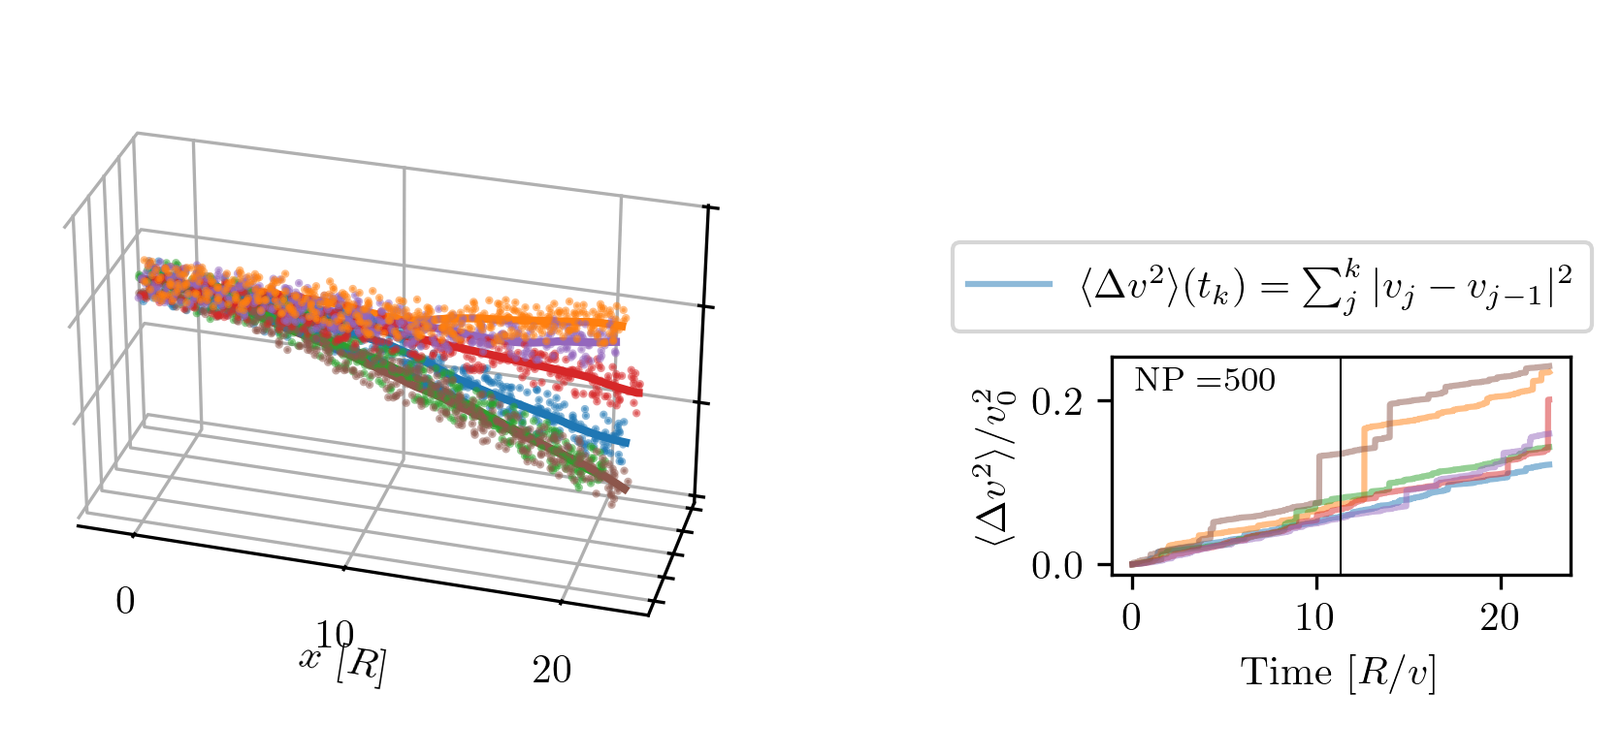
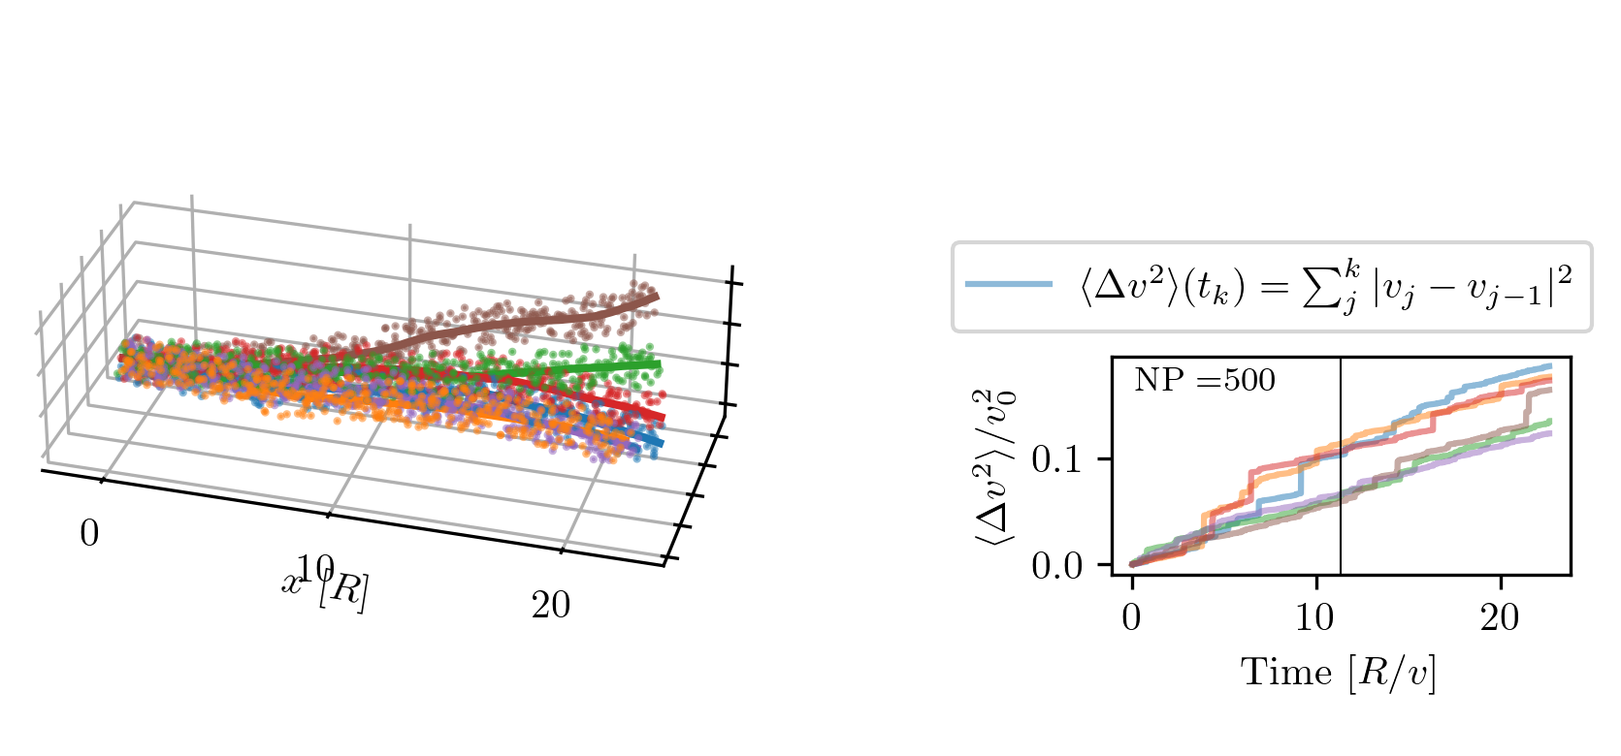
editted intro to ignored physics

diff --git a/docs/theory.html b/docs/theory.html
@@ -2587,124 +2587,119 @@ out the landscape of what we’re missing and other techinques presented
 in the literature. The most important of which is certainly handing the
 globular cluster as a collisional system.</p>
 <h2 id="sec:collisionalDynamics">Collisional dynamics</h2>
-<p>As shown in multiple sources, it is appropraite to consider the
-orbits of stars within the disk or the galaxy as being collisionless.
-However, this is unsatisfactory for globular clusters. I want to show a
-little bit of that here.</p>
-<p>I don’t want to represent the whole derivation but present a little
-numerical experiment I conducted to show what two-body relaxation is as
-it is presented.</p>
-<p>Two body relaxation aims at quantifying the innaccurary of the
-mean-field approximation. It formualtes the question in this manner, how
-long does it take for the granularity of the medium to cause my
-trajecotry to significantly deviate from it’s trajectory if it were in a
-perfectly homogeneous medium? The metric is thus finding the amount time
-such that <span class="math inline">\(\delta v / v_0 \approx
-1\)</span>.</p>
-<p>These types of calculations really abstract the motion of a particle
-from that of an orbit in the galaxy. The exact orbit of the star is
-completely neglected. Instead, we consider uniform motion. Then, we
-consider the motion of a star in a medium made of discrete particles. If
-the mass is distributed onto many particles, then each one is smaller,
-and there are more of them, and we better approximate the mean field.
-However, if there are less of them, then each one is significant and can
-perturb the motion of our particle in a significant way.</p>
-<p>For instance, the consider the vector quanity of the change in
-velocity due to an impact within the impulse approximation. It is: <span
-class="math display">\[\label{eq:delta_v_vec_impulse_approx}
-            \delta \mathbf{v} = \frac{Gm}{bv}\begin{bmatrix} 0 \\
-\cos\left(\theta\right) \\ \sin\left(\theta\right)
-\end{bmatrix},\]</span> Imagine now, that this particle is flying
-through the galaxy. Now, instead of considering just one fly-by, we want
-to consider all fly-bys that could happen. It’s too difficult to
-consider a real galaxy. Since the stellar density decays with distance,
-and if we are never in the center, then one side should have more stars
-than the other. However, that would be considering the mean-field and we
-want to completely abstract the stochastic fluctuations from the mean
-field. So if the gravitational field of the Milky Way can be considered:
-<span class="math inline">\(\Phi_\mathrm{MW} =
-\Phi_\mathrm{mean}\left(\vec{r}\right) +
-\Phi_\mathrm{stochastic}\left(\vec{r}\right)\)</span>, then we only need
-consider the stochastic fluctuations and not the mean field that
-contains the over all density trends.</p>
-<p>So, to really simplify this problem, we can consider the galaxy to be
-a cylinder of finite width but infinite length, with a number density
-<span class="math inline">\(n=N_p/\pi R^3\)</span>, whose length and
-radius have the same length. As the particle passes through the medium,
-using the impulse approximation, we can track how the velocity changes.
-These impulses kick the particle to the left or the right but never give
-or take along the direction of motion, by definition within the impulse
-approximation. I present this little numerical experiment in Fig. <a
-href="#fig:twoBodyRelaxation" data-reference-type="ref"
+<p>While it is appropriate to treat the orbits of stars in galaxy as
+collisionless, this approximation breaks down in the context of globular
+clusters. Here, I present a brief numerical experiment to illustrate the
+concept of two-body relaxation, which quantifies the breakdown of the
+mean-field approximation.</p>
+<p>Two-body relaxation asks: how long does it take for the discrete,
+granular nature of the stellar medium to cause a star’s trajectory to
+deviate significantly from the one it would follow in a perfectly smooth
+(mean-field) potential? This timescale is defined by the condition:
+<span class="math inline">\(\delta v / v_0 \sim 1\)</span>, meaning that
+the change in the velocity due to the medium roughly the original
+speed.</p>
+<p>In this context, we simplify the star’s motion, neglecting the
+complexity of orbital paths in a galaxy. Instead, we consider uniform
+motion through a medium composed of discrete masses. If the medium
+consists of many small-mass particles, the potential is smoother and
+better approximates the mean field. If there are fewer particles with
+larger mass, each interaction can cause a significant deflection.</p>
+<p>For a single interaction in the impulse approximation, the change in
+velocity is: <span class="math display">\[\delta \mathbf{v} =
+\frac{Gm}{bv} \begin{bmatrix} 0 \\ \cos\theta \\ \sin\theta
+\end{bmatrix},
+            \label{eq:delta_v_vec_impulse_approx}\]</span> where <span
+class="math inline">\(b\)</span> is the impact parameter, <span
+class="math inline">\(m\)</span> the perturber’s mass, <span
+class="math inline">\(v\)</span> the relative velocity, and <span
+class="math inline">\(\theta\)</span> the angle in the transverse plane.
+These impulses deflect the star sideways but not along the direction of
+motion — a key assumption in the impulse approximation.</p>
+<p>Now consider not just one fly-by, but a sequence of them. A real
+galaxy has a radially decreasing density, so a star never sees a
+symmetric distribution unless it’s exactly at the center — but we are
+interested in <strong>fluctuations</strong> from the mean field, not the
+mean field itself. That is, if <span
+class="math inline">\(\Phi_\mathrm{MW} = \Phi_\mathrm{mean}(\vec{r}) +
+\Phi_\mathrm{stochastic}(\vec{r})\)</span>, we are isolating the
+stochastic part.</p>
+<p>To simplify further, we idealize the galaxy as a cylinder of radius
+and length <span class="math inline">\(R\)</span>, with uniform number
+density <span class="math inline">\(n = N_p / (\pi R^3)\)</span>. As the
+star moves through this medium, we apply Eq. <a
+href="#eq:delta_v_vec_impulse_approx" data-reference-type="ref"
+data-reference="eq:delta_v_vec_impulse_approx">[eq:delta_v_vec_impulse_approx]</a>
+to compute cumulative velocity kicks. This is demonstrated numerically
+in Fig. <a href="#fig:twoBodyRelaxation" data-reference-type="ref"
 data-reference="fig:twoBodyRelaxation">22</a>.</p>
 <figure id="fig:twoBodyRelaxation">
 <img src="images/twoBodyRelaxation.png" />
-<figcaption>Demonstration of Two-Body Relaxation. A star traverses a
-medium of uniform number density. I present 5 different trajectories who
-sample their own media, of the same number density, yet each one is
-sampled stochastically. The number density is 1000/<span
-class="math inline">\(\pi R^3\)</span>. The particles are generated as
-the star moves and therefore they can keep diverging. The graph on the
-right presents the cummulative change in velocity squared. The vertical
-presents the two theoretical relaxation time.</figcaption>
+<figcaption> Demonstration of two-body relaxation. A star travels
+through a medium with uniform number density (<span
+class="math inline">\(n = 500/\pi R^3\)</span>). Six independent
+trajectories are shown, each sampling a different realization of the
+same underlying number density. Particles are generated on-the-fly as
+the star moves. The right panel shows the cumulative squared change in
+velocity. The vertical line indicates the theoretical two-body
+relaxation time<a href="#fn3" class="footnote-ref" id="fnref3"
+role="doc-noteref"><sup>3</sup></a>. </figcaption>
 </figure>
-<p>Briefly, to perform the experiment in Fig. <a
+<p>To perform this experiment, I normalize units such that <span
+class="math inline">\(G = M = R = t_\mathrm{cross} = 1\)</span>, giving
+<span class="math inline">\(v_0 = 1\)</span> and <span
+class="math inline">\(m = M/N_p\)</span>. For Fig. <a
 href="#fig:twoBodyRelaxation" data-reference-type="ref"
-data-reference="fig:twoBodyRelaxation">22</a>, I normalize the problem
-to: <span class="math inline">\(G=1\)</span>, <span
-class="math inline">\(M=1\)</span>, <span class="math inline">\(R=1,
-t_\mathrm{cross}=1\)</span>, which determines that <span
-class="math inline">\(v_0=1\)</span>, <span
-class="math inline">\(m=M/N_p\)</span>. For the example presented in
-Fig. <a href="#fig:twoBodyRelaxation" data-reference-type="ref"
-data-reference="fig:twoBodyRelaxation">22</a>, there are 500 particles.
-The density of the medium is thus: <span
-class="math inline">\(500/\pi\)</span>. I select a total integration
-period, and a time step <span class="math inline">\(dt\)</span>. At each
-time step, the volume a disk is found by: <span
-class="math inline">\(\pi R^2 v dt\)</span> and is populated with a
-uniform sample of particles. The number of particles to use is found
-through Poisson statistics by stating that the expected number of
-particles within the disk is <span class="math inline">\(\langle
-N_{p,\mathrm{disc}} \rangle = n \pi R^2 v dt\)</span>. By using Eq. <a
-href="#eq:delta_v_vec_impulse_approx" data-reference-type="ref"
-data-reference="eq:delta_v_vec_impulse_approx">[eq:delta_v_vec_impulse_approx]</a>
-and summed together to find the net change in velocity and position.
-This step is repeated at the next time step.</p>
-<p>Theoretically, in this idealized scenario, it can be shown that, on
-average: <span class="math display">\[\langle \delta \mathbf{v}\rangle =
-\mathbf{0},\]</span> which is unsurprisingly since the medium is
-uniformly distributed, and integrating sine or cosine over one full
-period is null. However, <span class="math inline">\(\langle \delta v^2
-\rangle\)</span> is not zero. Given the assumptions above, we can find
-the rate of change of <span class="math inline">\(\langle \delta v^2
-\rangle\)</span> per unit time: <span class="math inline">\(\frac{d
-\langle \delta v^2 \rangle} {dt}\)</span>. Once this is found, one can
-find the two body relaxation time as: <span
+data-reference="fig:twoBodyRelaxation">22</a>, <span
+class="math inline">\(N_p = 500\)</span>, so the number density is <span
+class="math inline">\(500/\pi\)</span>.</p>
+<p>At each timestep <span class="math inline">\(dt\)</span>, a
+cylindrical volume <span class="math inline">\(\pi R^2 v dt\)</span> is
+populated with a Poisson-sampled number of particles, where the expected
+number is <span class="math inline">\(\langle N_{p,\mathrm{disc}}
+\rangle = n \pi R^2 v dt\)</span>. Each particle contributes a velocity
+kick via Eq. <a href="#eq:delta_v_vec_impulse_approx"
+data-reference-type="ref"
+data-reference="eq:delta_v_vec_impulse_approx">[eq:delta_v_vec_impulse_approx]</a>,
+which is summed over time to compute the net velocity and
+trajectory.</p>
+<p>I would like to present some key steps in the theoretical derivation.
+In this idealized model, we expect: <span class="math display">\[\langle
+\delta \mathbf{v} \rangle = \mathbf{0},\]</span> since the medium is
+isotropic and random, so kicks cancel on average. However, the mean
+squared change is non-zero: <span class="math display">\[\left\langle
+\delta v^2 \right\rangle \neq 0.\]</span> <span
+class="math inline">\(\left\langle \delta v^2 \right\rangle\)</span> can
+be found by reasoning on the number of expected interactions from each
+shell of a cylinder, where the volume infinitesimal is: <span
+class="math inline">\(rd\theta dr(vdt)\)</span>. We find that this
+<em>diffusion</em> grows linearly with time, and its rate of change
+gives the two-body relaxation timescale: <span
 class="math display">\[\tau_\mathrm{2-body} = \frac{v_0^2}{\frac{d
-\langle \delta v^2 \rangle}{dt}}.\]</span> The last trick to this is
-that <em>coloumb integral</em>, which is tricky since it integrates:
-<span class="math inline">\(\int \frac{1}{R} dR\)</span>, which
-diverges, therefore one has to pick appropriate limits. The upper limit
-is the extent of the system, since there are no particles beyond this.
-The lower limit is tricker. We choose this to be the point at which the
-assumption breaks down. I choose it to be the distance at which, for a
-given speed, the particles would be bounded. This is generous since the
-impulse approximation would breakdown before this. However, it’s just a
-quick esimate in the first place.</p>
-<p>This gives the result that: <span class="math display">\[\tau =
-t_\mathrm{cross}\frac{N}{8\ln\left(N/2\right)}\]</span></p>
-<p>Globular clusters are undoubteled collisional systems. The same
-computating using the columb law, to compute how long it takes for a
-given particles to change it’s momentum on same order of magnitude as
-it’s initial momentum is much less than the age of a given globular
-cluster. This computation is what justified us for using the fluid limit
-for galactic dynamics, and it is the same computation that instructs us
-that we are incorrect for globular clusters. <span class="citation"
-data-cites="2023LRCA....9....3S">Spurzem and Kamlah (2023)</span>
-published a review discussing <em>Computational methods for collisional
-stellar systems</em>, and entitled one of their sections <em>Nbody the
-growth of an industry</em>.</p>
+\left\langle \delta v^2 \right\rangle}{dt}}.\]</span></p>
+<p>Another key in this derivation is the Coulomb integral, which
+involves a logarithmic divergence: <span class="math display">\[\int
+\frac{1}{R} \, dR.\]</span> We must regularize this with appropriate
+limits. The upper limit is the system size (no perturbers beyond this).
+The lower limit corresponds to where the impulse approximation breaks
+down — I choose the distance at which a star becomes gravitationally
+bound to the perturber, though this is generous and the impulse
+approximation breaks down at larger distances.</p>
+<p>The resulting expression for the two-body relaxation time is: <span
+class="math display">\[\tau = t_\mathrm{cross} \, \frac{N}{8
+\ln(N/2)}.\]</span></p>
+<p>Let’s apply this to globular clusters using their catalog values.
+Take the median crossing time per star as <span
+class="math display">\[t_\mathrm{cross} =
+\sqrt{\frac{r_{1/2}^3}{GM}},\]</span> assuming an average stellar mass
+of 0.8 <span class="math inline">\(M_\odot\)</span> [citation needed].
+With this, only a handful of clusters have relaxation times greater than
+the 5 Gyr integration time used in our simulations. These include:</p>
+<p><em>NGC 2419, NGC 5139, Pal 14, Pal 15, FSR1758, Ter 8,
+Sagittarius II.</em></p>
+<p>Across the catalog, the average relaxation time is 1.5 Gyr, the
+median is 0.8 Gyr, the maximum is 21 Gyr, and the minimum is 0.03
+Gyr.</p>
 <ul>
 <li><p>not nbody</p></li>
 <li><p>no mass segregation</p></li>
@@ -3058,13 +3053,6 @@ Schneider, J. M. Carpenter, C. Beichman, et al. 2006. <span>“<span>The
 Two Micron All Sky Survey (2MASS)</span>”</span> 131 (2): 1163–83. <a
 href="https://doi.org/10.1086/498708">https://doi.org/10.1086/498708</a>.
 </div>
-<div id="ref-2023LRCA....9....3S" class="csl-entry" role="listitem">
-Spurzem, Rainer, and Albrecht Kamlah. 2023. <span>“<span
-class="nocase">Computational methods for collisional stellar
-systems</span>.”</span> <em>Living Reviews in Computational
-Astrophysics</em> 9 (1): 3. <a
-href="https://doi.org/10.1007/s41115-023-00018-w">https://doi.org/10.1007/s41115-023-00018-w</a>.
-</div>
 <div id="ref-table20245" class="csl-entry" role="listitem">
 Table, EIA. 2024. <span>“5.6. A. Average Price of Electricity to
 Ultimate Customers by End-Use Sector.”</span> <em>US Energy Information
@@ -3118,6 +3106,15 @@ interchangeably with “constant of motion”, but strictly speaking, the
 latter is preferable since it refers to a quantity that remains constant
 throughout the orbital evolution, not to an integral in the mathematical
 sense of the word (area under a curve).<a href="#fnref2"
+class="footnote-back" role="doc-backlink">↩</a></p></li>
+<li id="fn3"><p>The two-body relaxation experiment is purely
+illustrative. Despite multiple attempts, I was unable to make the
+numerical results consistent with the theoretical prediction. Not only
+is the relaxation process significantly slower than expected, but the
+discrepancy also worsens with increasing particle number. I rewrote the
+script several times but was unable to identify the issue. Nonetheless,
+the main takeaway remains valid: gravitational two-body encounters
+induce a random walk in velocity space.<a href="#fnref3"
 class="footnote-back" role="doc-backlink">↩</a></p></li>
 </ol>
 </section>

diff --git a/chapters/theory.tex b/chapters/theory.tex
@@ -711,7 +711,7 @@ Conceptually, the chapter is divided into three sections that mirror these motiv
 
         But once stars escape, why do they form coherent stellar streams? And do they do anything else? To answer this, I must first introduce the concept of \textit{phase mixing}. This naturally leads us to discuss the range of possible orbits a globular cluster can follow, given observational uncertainties. I'll cover this fully before returning to the topic of stellar streams, which will be much easier to understand once this groundwork is in place.
         
-        \textit{Phase mixing} is a direct consequence of Liouville's theorem, which follows from the collisionless Boltzmann equation. Liouville's theorem states that the infinitesimal volume element in phase space, \( d\mathbf{p}\,d\mathbf{q} \), is preserved under Hamiltonian evolution. In other words, the phase-space density \( f(\mathbf{q}, \mathbf{p}, t) \) remains constant along a particle’s trajectory.
+        \textit{Phase mixing} is a direct consequence of Liouville's theorem, which follows from the collisionless Boltzmann equation. Liouville's theorem states that the infinitesimal volume element in phase space, \( d\mathbf{p}\,d\mathbf{q} \), is preserved under Hamiltonian evolution. In other words, the phase-space density \( f(\mathbf{q}, \mathbf{p}, t) \) remains constant along a particle's trajectory.
 
         To visualize this, instead of considering a single infinitesimal element, imagine a small cloud of initial conditions centered around \((\mathbf{q}_0, \mathbf{p}_0)\), with spread \(\sigma_q\) and \(\sigma_p\). While the total 6D volume of this cloud, \(\sigma_q^3 \sigma_p^3\), remains constant, differences in momentum cause the particles to move through phase space at different rates. Particles with higher momenta advance more quickly, while those with lower momenta lag behind. This leads to the cloud stretching and dispersing, even as its total volume is conserved. Since solutions to Hamilton's equations are unique, this dispersion reflects how nearby trajectories gradually diverge and spread over the available phase space—a process we call phase mixing.
 
@@ -962,60 +962,69 @@ Conceptually, the chapter is divided into three sections that mirror these motiv
      
 
     \subsection{Collisional dynamics} \label{sec:collisionalDynamics}
-        As shown in multiple sources, it is appropraite to consider the orbits of stars within the disk or the galaxy as being collisionless. However, this is unsatisfactory for globular clusters. I want to show a little bit of that here. 
+        While it is appropriate to treat the orbits of stars in galaxy as collisionless, this approximation breaks down in the context of globular clusters. Here, I present a brief numerical experiment to illustrate the concept of two-body relaxation, which quantifies the breakdown of the mean-field approximation.
 
-        I don't want to represent the whole derivation but present a little numerical experiment I conducted to show what two-body relaxation is as it is presented. 
+        Two-body relaxation asks: how long does it take for the discrete, granular nature of the stellar medium to cause a star's trajectory to deviate significantly from the one it would follow in a perfectly smooth (mean-field) potential? This timescale is defined by the condition: $\delta v / v_0 \sim 1$, meaning that the change in the velocity due to the medium roughly the original speed.
 
-        Two body relaxation aims at quantifying the innaccurary of the mean-field approximation. It formualtes the question in this manner, how long does it take for the granularity of the medium to cause my trajecotry to significantly deviate from it's trajectory if it were in a perfectly homogeneous medium? The metric is thus finding the amount time such that $\delta v / v_0 \approx 1$. 
+        In this context, we simplify the star's motion, neglecting the complexity of orbital paths in a galaxy. Instead, we consider uniform motion through a medium composed of discrete masses. If the medium consists of many small-mass particles, the potential is smoother and better approximates the mean field. If there are fewer particles with larger mass, each interaction can cause a significant deflection.
 
-        These types of calculations really abstract the motion of a particle from that of an orbit in the galaxy. The exact orbit of the star is completely neglected. Instead, we consider uniform motion. Then, we consider the motion of a star in a medium made of discrete particles. If the mass is distributed onto many particles, then each one is smaller, and there are more of them, and we better approximate the mean field. However, if there are less of them, then each one is significant and can perturb the motion of our particle in a significant way. 
-
-        For instance, the consider the vector quanity of the change in velocity due to an impact within the impulse approximation. It is:
-        \begin{equation}\label{eq:delta_v_vec_impulse_approx}
-            \delta \mathbf{v} = \frac{Gm}{bv}\begin{bmatrix} 0 \\ \cos\left(\theta\right) \\ \sin\left(\theta\right) \end{bmatrix},
+        For a single interaction in the impulse approximation, the change in velocity is:
+        \begin{equation}
+            \delta \mathbf{v} = \frac{Gm}{bv} \begin{bmatrix} 0 \\ \cos\theta \\ \sin\theta \end{bmatrix},
+            \label{eq:delta_v_vec_impulse_approx}
         \end{equation}
-        Imagine now, that this particle is flying through the galaxy. Now, instead of considering just one fly-by, we want to consider all fly-bys that could happen. It's too difficult to consider a real galaxy. Since the stellar density decays with distance, and if we are never in the center, then one side should have more stars than the other. However, that would be considering the mean-field and we want to completely abstract the stochastic fluctuations from the mean field. So if the gravitational field of the Milky Way can be considered: $\Phi_\mathrm{MW} = \Phi_\mathrm{mean}\left(\vec{r}\right) + \Phi_\mathrm{stochastic}\left(\vec{r}\right)$, then we only need consider the stochastic fluctuations and not the mean field that contains the over all density trends. 
+        where $b$ is the impact parameter, $m$ the perturber's mass, $v$ the relative velocity, and $\theta$ the angle in the transverse plane. These impulses deflect the star sideways but not along the direction of motion — a key assumption in the impulse approximation.
 
-        So, to really simplify this problem, we can consider the galaxy to be a cylinder of finite width but infinite length, with a number density $n=N_p/\pi R^3$, whose length and radius have the same length. As the particle passes through the medium, using the impulse approximation, we can track how the velocity changes. These impulses kick the particle to the left or the right but never give or take along the direction of motion, by definition within the impulse approximation. I present this little numerical experiment in Fig.~\ref{fig:twoBodyRelaxation}.
+        Now consider not just one fly-by, but a sequence of them. A real galaxy has a radially decreasing density, so a star never sees a symmetric distribution unless it's exactly at the center — but we are interested in \textbf{fluctuations} from the mean field, not the mean field itself. That is, if $\Phi_\mathrm{MW} = \Phi_\mathrm{mean}(\vec{r}) + \Phi_\mathrm{stochastic}(\vec{r})$, we are isolating the stochastic part.
+
+        To simplify further, we idealize the galaxy as a cylinder of radius and length $R$, with uniform number density $n = N_p / (\pi R^3)$. As the star moves through this medium, we apply Eq.~\ref{eq:delta_v_vec_impulse_approx} to compute cumulative velocity kicks. This is demonstrated numerically in Fig.~\ref{fig:twoBodyRelaxation}.
+
         \begin{figure}
             \includegraphics[]{images/twoBodyRelaxation.png}
-            \caption{Demonstration of Two-Body Relaxation. A star traverses a medium of uniform number density. I present 5 different trajectories who sample their own media, of the same number density, yet each one is sampled stochastically. The number density is 1000/$\pi R^3$. The particles are generated as the star moves and therefore they can keep diverging. The graph on the right presents the cummulative change in velocity squared. The vertical presents the two theoretical relaxation time.}
+            \caption{
+                Demonstration of two-body relaxation. A star travels through a medium with uniform number density ($n = 500/\pi R^3$). Six independent trajectories are shown, each sampling a different realization of the same underlying number density. Particles are generated on-the-fly as the star moves. The right panel shows the cumulative squared change in velocity. The vertical line indicates the theoretical two-body relaxation time\footnote{The two-body relaxation experiment is purely illustrative. Despite multiple attempts, I was unable to make the numerical results consistent with the theoretical prediction. Not only is the relaxation process significantly slower than expected, but the discrepancy also worsens with increasing particle number. I rewrote the script several times but was unable to identify the issue. Nonetheless, the main takeaway remains valid: gravitational two-body encounters induce a random walk in velocity space.}.
+            }
             \label{fig:twoBodyRelaxation}
         \end{figure}
-        Briefly, to perform the experiment in Fig.~\ref{fig:twoBodyRelaxation}, I normalize the problem to: $G=1$, $M=1$, $R=1, t_\mathrm{cross}=1$, which determines that $v_0=1$, $m=M/N_p$. For the example presented in Fig.~\ref{fig:twoBodyRelaxation}, there are 500 particles. The density of the medium is thus: $500/\pi$. I select a total integration period, and a time step $dt$. At each time step, the volume a disk is found by: $\pi R^2 v dt$ and is populated with a uniform sample of particles. The number of particles to use is found through Poisson statistics by stating that the expected number of particles within the disk is $\langle N_{p,\mathrm{disc}} \rangle = n \pi R^2 v dt$.  By using Eq.~\ref{eq:delta_v_vec_impulse_approx} and summed together to find the net change in velocity and position. This step is repeated at the next time step. 
 
+        To perform this experiment, I normalize units such that $G = M = R = t_\mathrm{cross} = 1$, giving $v_0 = 1$ and $m = M/N_p$. For Fig.~\ref{fig:twoBodyRelaxation}, $N_p = 500$, so the number density is $500/\pi$. 
 
-        Theoretically, in this idealized scenario, it can be shown that, on average:
+        At each timestep $dt$, a cylindrical volume $\pi R^2 v dt$ is populated with a Poisson-sampled number of particles, where the expected number is $\langle N_{p,\mathrm{disc}} \rangle = n \pi R^2 v dt$. Each particle contributes a velocity kick via Eq.~\ref{eq:delta_v_vec_impulse_approx}, which is summed over time to compute the net velocity and trajectory.
+
+        I would like to present some key steps in the theoretical derivation. In this idealized model, we expect:
         \begin{equation}
-            \langle \delta \mathbf{v}\rangle = \mathbf{0},
+            \langle \delta \mathbf{v} \rangle = \mathbf{0},
         \end{equation}
-        which is unsurprisingly since the medium is uniformly distributed, and integrating sine or cosine over one full period is null. However, $\langle \delta v^2 \rangle$ is not zero. Given the assumptions above, we can find the rate of change of $\langle \delta v^2 \rangle$ per unit time: $\frac{d \langle \delta v^2 \rangle} {dt}$. Once this is found, one can find the two body relaxation time as: 
+        since the medium is isotropic and random, so kicks cancel on average. However, the mean squared change is non-zero:
         \begin{equation}
-            \tau_\mathrm{2-body} = \frac{v_0^2}{\frac{d \langle \delta v^2 \rangle}{dt}}.
+            \left\langle \delta v^2 \right\rangle \neq 0.
         \end{equation}
-        The last trick to this is that \textit{coloumb integral}, which is tricky since it integrates: $\int \frac{1}{R} dR$, which diverges, therefore one has to pick appropriate limits. The upper limit is the extent of the system, since there are no particles beyond this. The lower limit is tricker. We choose this to be the point at which the assumption breaks down. I choose it to be the distance at which, for a given speed, the particles would be bounded. This is generous since the impulse approximation would breakdown before this. However, it's just a quick esimate in the first place. 
-
-        This gives the result that: 
+        $\left\langle \delta v^2 \right\rangle$ can be found by reasoning on the number of expected interactions from each shell of a cylinder, where the volume infinitesimal is: $rd\theta dr(vdt)$. We find that this \textit{diffusion} grows linearly with time, and its rate of change gives the two-body relaxation timescale:
         \begin{equation}
-            \tau = t_\mathrm{cross}\frac{N}{8\ln\left(N/2\right)}.
+            \tau_\mathrm{2-body} = \frac{v_0^2}{\frac{d \left\langle \delta v^2 \right\rangle}{dt}}.
         \end{equation}
 
-        Let's use this result and apply it to the globular cluster catalog. First, let's pick the mediam crossing time per star within the cluster: $t_\mathrm{cross}=\sqrt{r_{1/2}^3/GM}$. Then, let's assume that the average mass per star is 0.8~$M_\odot$ (citation?). With these choices, this gives only a handful of clusters whose relaxation time is greater than the $5$ billion years used in our simulations. They are: NGC2419, NGC5139, Pal14, Pal15, FSR1758, Ter8,  SagittariusII. Also, the average relaxation time is 1.~gyr and the median time is 0.8~Gyr. 
+        Another key in this derivation is the Coulomb integral, which involves a logarithmic divergence:
+        \[
+        \int \frac{1}{R} \, dR.
+        \]
+        We must regularize this with appropriate limits. The upper limit is the system size (no perturbers beyond this). The lower limit corresponds to where the impulse approximation breaks down — I choose the distance at which a star becomes gravitationally bound to the perturber, though this is generous and the impulse approximation breaks down at larger distances.
 
+        The resulting expression for the two-body relaxation time is:
+        \begin{equation}
+            \tau = t_\mathrm{cross} \, \frac{N}{8 \ln(N/2)}.
+        \end{equation}
 
-    
-    
-    
+        Let's apply this to globular clusters using their catalog values. Take the median crossing time per star as
+        \[
+        t_\mathrm{cross} = \sqrt{\frac{r_{1/2}^3}{GM}},
+        \]
+        assuming an average stellar mass of 0.8 $M_\odot$ [citation needed]. With this, only a handful of clusters have relaxation times greater than the 5 Gyr integration time used in our simulations. These include: 
+        
+        \textit{NGC~2419, NGC~5139, Pal~14, Pal~15, FSR1758, Ter~8, Sagittarius~II.}
 
-        
-        
-        
+        Across the catalog, the average relaxation time is 1.5 Gyr, the median is 0.8 Gyr, the maximum is 21 Gyr, and the minimum is 0.03 Gyr.
 
-        
-        
-        
-
-        Globular clusters are undoubteled collisional systems. The same computating using the columb law, to compute how long it takes for a given particles to change it's momentum on same order of magnitude as it's initial momentum is much less than the age of a given globular cluster. This computation is what justified us for using the fluid limit for galactic dynamics, and it is the same computation that instructs us that we are incorrect for globular clusters. \citet{2023LRCA....9....3S} published a review discussing \textit{Computational methods for collisional stellar systems}, and entitled one of their sections \textit{Nbody the growth of an industry}. 
 
 
         \begin{itemize}
